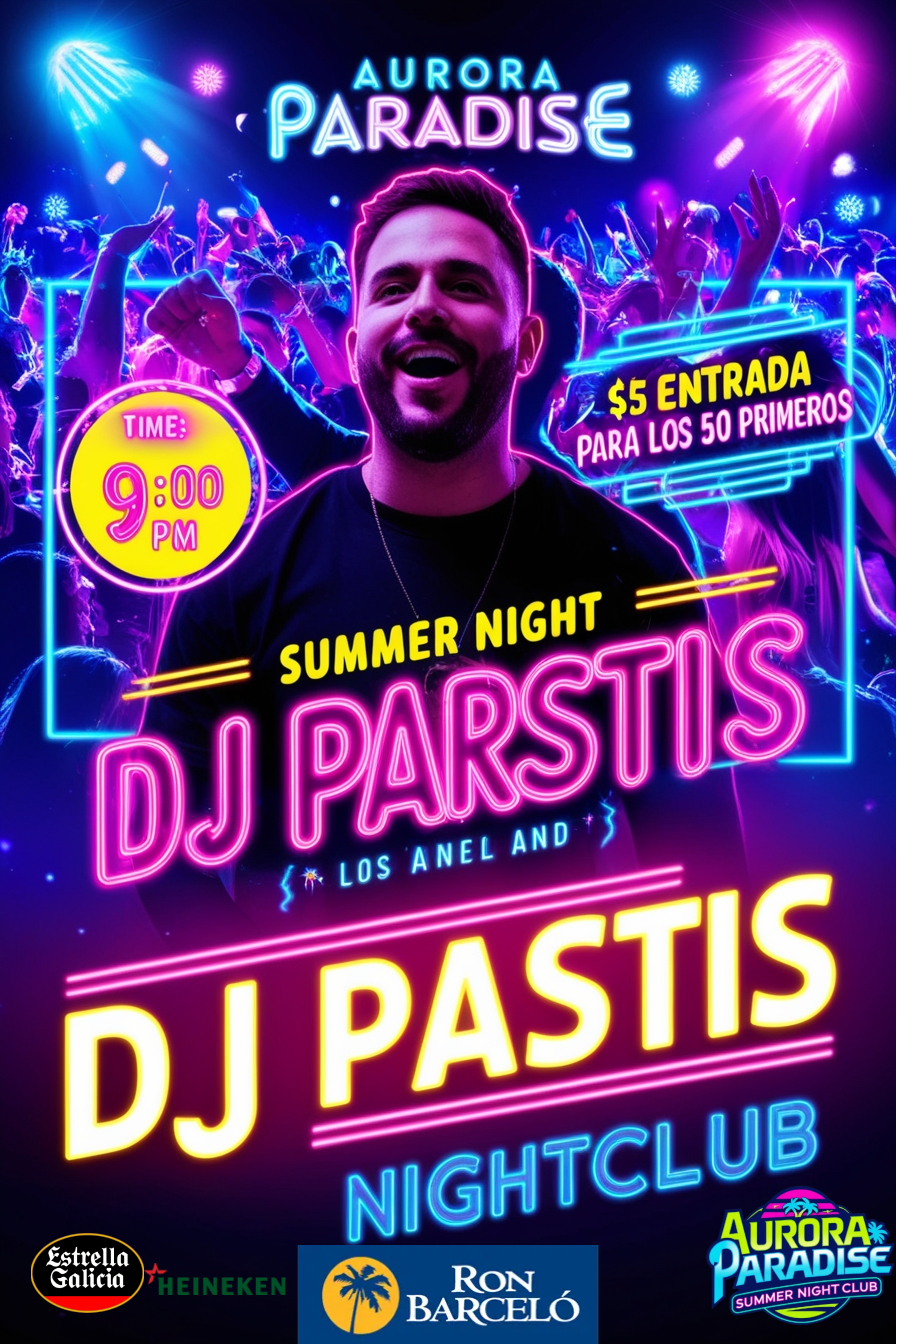
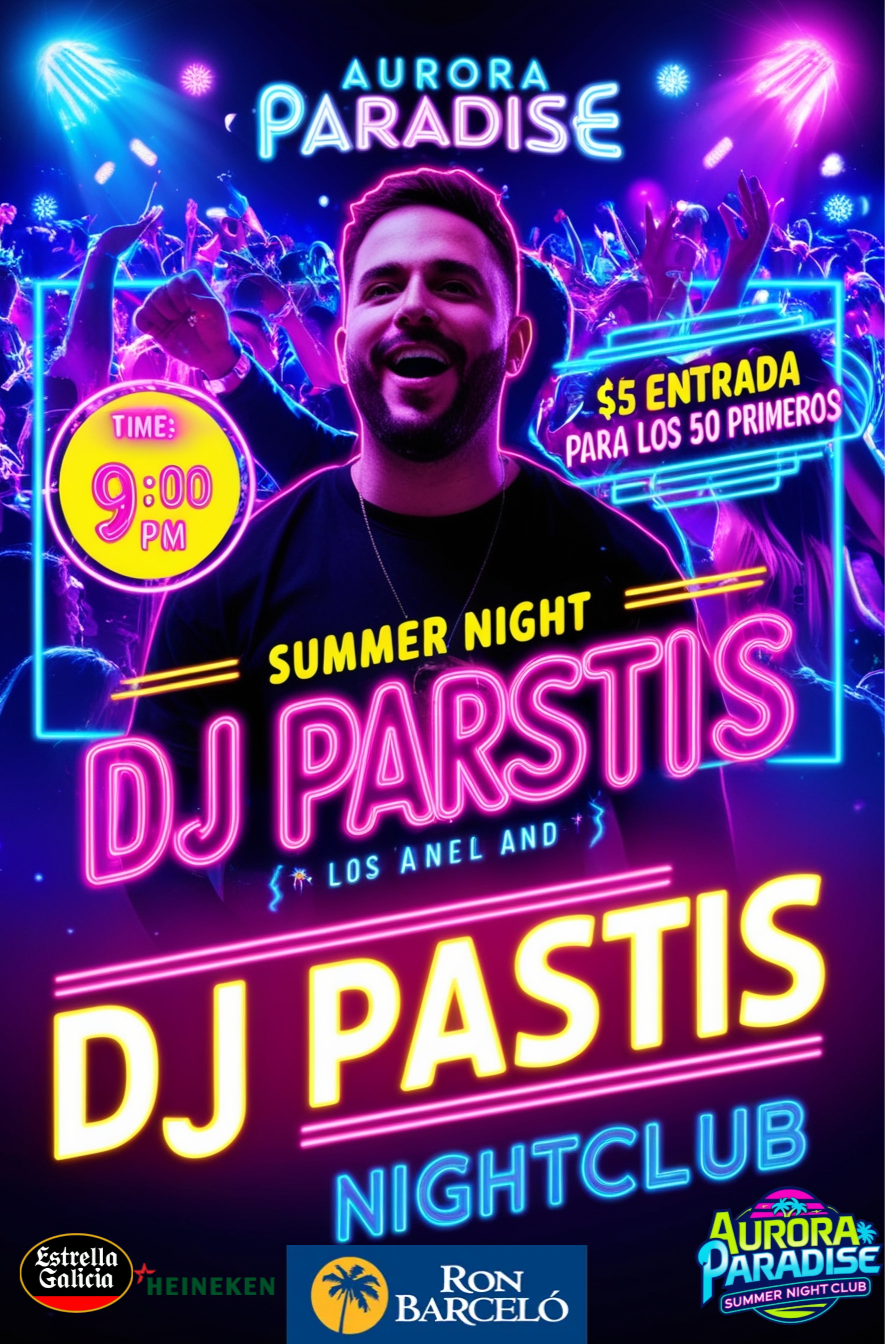
primera parte eventos se abre cartel

diff --git a/discotecaverano/src/componentes/eventos/eventos.tsx b/discotecaverano/src/componentes/eventos/eventos.tsx
@@ -1,4 +1,4 @@
-import React from 'react'
+import React, { useState } from 'react';
 import './eventos.css'
 
 type Evento = {
@@ -21,41 +21,67 @@ const eventosLista: Evento[] = [
 
         title: 'Retro Beats Festival con DJ Pastis',
         description: 'Vuelve al pasado con los sonidos más icónicos en la Retro Beats Festival en AURORA PARADISE. DJ Pastis te llevará en un viaje musical lleno de nostalgia y ritmos clásicos con un toque moderno. Disfruta de un ambiente lleno de luces neón vibrantes y una oferta especial: 5$ la entrada para los 50 primeros en entrar. ¡Ven a revivir los mejores momentos!',
-        fecha: 'Retro Beats Festival con DJ Pastis',
-        imageUrl: 'https://via.placeholder.com/300',
-        videoUrl: 'https://www.youtube.com/embed/dQw4w9WgXcQ'
+        fecha: ' Viernes, 21 de Junio,A partir de las 22:00',
+        imageUrl: '../../imagenes/evento2.png',
+        videoUrl: 'D6ypkCZvz7s?si=D8WLhvjQ_OB5v8EZ'
     },
     {
 
-        title: 'Pool Party',
-        description: 'Disfruta de una pool party épica con DJ en vivo.',
-        fecha: '15/02/2025',
-        imageUrl: 'https://via.placeholder.com/300',
-        videoUrl: 'https://www.youtube.com/embed/dQw4w9WgXcQ'
+        title: 'Midnight Groove Experience con DJ Groove"',
+        description: 'Déjate llevar por las vibraciones profundas del Midnight Groove Experience en AURORA PARADISE. DJ Groove traerá los ritmos más intensos para mantenerte bailando hasta el amanecer. Disfruta de una noche llena de energía, luces neón y buena música. No te pierdas nuestra oferta especial: Entrada gratis. ¡Ven a sentir el groove con nosotros!',
+        fecha: ' Viernes, 21 de Junio,A partir de las 23:30',
+        imageUrl: '../../imagenes/evento3.png',
+        videoUrl: '-syFI6iYzuY?si=f-KyekKV9of2Petp'
     }
 ];
 
 
 export default function eventos() {
+
+    // Estado para controlar la visibilidad del modal
+    const [modalAbierto, setModalAbierto] = useState<boolean>(false);
+    // Estado para almacenar el evento seleccionado
+    const [eventoSeleccionado, setEventoSeleccionado] = useState<Evento | null>(null);
+
+    // Función para abrir el modal y mostrar la imagen del evento seleccionado
+    const abrirModal = (evento: Evento) => {
+        setEventoSeleccionado(evento);
+        setModalAbierto(true);  // Abrimos el modal
+    };
+
+    // Función para cerrar el modal
+    const cerrarModal = () => {
+        setModalAbierto(false);  // Cerramos el modal
+        setEventoSeleccionado(null);  // Limpiamos el evento seleccionado
+    };
+
+
     return (
+
+
         <div className='eventos'>
-            {eventosLista.map((evento, index) => (
-                <div key={index} className='evento-card'>
-                    <img src={evento.imageUrl} alt={evento.title} className='evento-image' />
-                    <div className='evento-info'>
-                        <h3 className='evento-title'>{evento.title}</h3>
-                        <p className='evento-description'>{evento.description}</p>
-                        <iframe
-                            src={`https://www.youtube.com/embed/${evento.videoUrl}`}
-                            title={evento.title}
-                            className='evento-video'
-                            frameBorder='0'
-                            allow='accelerometer; autoplay; clipboard-write; encrypted-media; gyroscope; picture-in-picture'
-                            allowFullScreen
-                        ></iframe>
+            <h2 className='eventoEncabezado'>EVENTOS</h2>
+            <div className="imagenesEventos">
+                {eventosLista.map((evento, index) => (
+                    <div key={index} className='evento-card'>
+                        <img src={evento.imageUrl}
+                            alt={evento.title}
+                            className='evento-image'
+                            onClick={() => abrirModal(evento)} />
+                    </div>
+                ))}
+            </div>
+
+            {/*Si el Modal esta abierto mostramos el cartel del evento en grande */}
+            {modalAbierto && eventoSeleccionado && (
+                <div className="containerCartelGrande" onClick={cerrarModal}> {/* Cerramos el modal si hacemos clic fuera */}
+                    <div className="cartelGrande" onClick={(e) => e.stopPropagation()}> {/* Evita que el clic dentro del contenido cierre el modal */}
+                        <img src={eventoSeleccionado.imageUrl} alt={eventoSeleccionado.title} className="imagenGrande" />
+                        <button className='boton'>VER MAS INFORMACION SOBRE EL EVENTO</button>
                     </div>
                 </div>
-            ))}
+            )}
         </div>
+
     )
 };

diff --git a/discotecaverano/src/componentes/eventos/eventos.css b/discotecaverano/src/componentes/eventos/eventos.css
@@ -1,54 +1,117 @@
-/* Estilo para el contenedor de eventos */
 .eventos {
-    display: grid;
-    grid-template-columns: repeat(auto-fill, minmax(300px, 1fr));
-    gap: 20px;
-    padding: 20px;
-}
-
-/* Estilo para cada tarjeta de evento */
-.evento-card {
-    background-color: white;
-    border-radius: 8px;
-    box-shadow: 0px 4px 10px rgba(0, 0, 0, 0.1);
-    overflow: hidden;
-    transition: transform 0.2s;
-}
-
-.evento-card:hover {
-    transform: scale(1.05);
-}
-
-/* Estilo para la imagen del evento */
-.evento-image {
+    margin: 4% 0;
     width: 100%;
-    height: auto;
+
 }
 
-/* Estilo para el contenedor de la información del evento */
-.evento-info {
-    padding: 15px;
+.eventoEncabezado {
+    color: #00FFFF;
+    font-size: 3rem;
+    font-weight: bold;
+    text-shadow:
+        0 0 4px rgb(11, 103, 209),
+        0 0 8px rgb(11, 103, 209),
+        0px 0px 12px rgb(11, 103, 209),
+        0px 0px 20px rgb(11, 103, 209),
+        0px 0px 30px rgb(11, 103, 209);
+
     text-align: center;
+    line-height: 1.1;
 }
 
-/* Estilo para el título del evento */
-.evento-title {
-    font-size: 1.5rem;
-    color: #333;
-    margin: 10px 0;
-}
-
-/* Estilo para la descripción del evento */
-.evento-description {
-    font-size: 1rem;
-    color: #666;
-    margin-bottom: 15px;
-}
-
-/* Estilo para el video del evento */
-.evento-video {
+.imagenesEventos {
     width: 100%;
-    height: 200px;
+    display: grid;
+    grid-template-columns: repeat(auto-fit, minmax(300px, 1fr));
+    gap: 1.5rem;
+    align-items: center;
+    justify-content: space-between;
+
+}
+
+.evento-card {
+    width: 100%;
+    display: flex;
+    justify-content: center;
+    align-items: center;
+}
+
+.evento-image {
+    width: 50%;
+    height: 50%;
+    object-fit: cover;
+    border-radius: 18px;
+    transition: transform 0.3s ease, box-shadow 0.3s ease;
+}
+
+.evento-image:hover {
+    transform: scale(1.05);
+    cursor: pointer;
+    box-shadow: 0 0 20px rgb(11, 103, 209), 0 0 40px rgb(11, 103, 209), 0 0 60px rgb(11, 103, 209);
+}
+
+/* Animación de Pop-up para el modal */
+@keyframes popUp {
+    0% {
+        transform: scale(0.7);
+        /* Comienza más pequeño */
+        opacity: 0;
+        /* Comienza invisible */
+    }
+
+    100% {
+        transform: scale(1);
+        /* Escala a su tamaño original */
+        opacity: 1;
+        /* Se vuelve completamente visible */
+    }
+}
+
+.containerCartelGrande {
+    position: fixed;
+    top: 0;
+    left: 0;
+    width: 100%;
+    height: 100%;
+    background-color: rgba(0, 0, 0, 0.7);
+    display: flex;
+    justify-content: center;
+    align-items: center;
+    z-index: 1000;
+
+}
+
+.cartelGrande {
+    width: 500px;
+    animation: popUp 0.5s ease-out;
+    display: flex;
+    justify-content: center;
+    flex-direction: column;
+    align-items: center;
+}
+
+.imagenGrande {
+    width: 100%;
+    margin-bottom: 4%;
+    border-radius: 18px;
+}
+
+.boton {
+    width: 100%;
+    padding: 0.8rem;
+    margin-top: 1rem;
+    background: linear-gradient(to right, rgba(0, 123, 255, 1), rgba(255, 0, 123, 1));
     border: none;
-    border-radius: 8px;
+    border-radius: 18px;
+    color: white;
+    font-size: 1.2rem;
+    font-weight: bold;
+    cursor: pointer;
+    transition: all 0.3s ease;
+}
+
+.boton:hover {
+    transform: scale(1.05);
+    box-shadow: 0 0 10px rgba(0, 123, 255, 1), 0 0 20px rgba(255, 0, 123, 1);
+
 }

diff --git a/discotecaverano/src/componentes/modalHome/modalHome.tsx b/discotecaverano/src/componentes/modalHome/modalHome.tsx
@@ -1,0 +1,36 @@
+import React, { useState } from 'react';
+import './modalHome.css'; // Archivo CSS para estilos
+
+// Definimos las propiedades del próximo evento usando una interfaz
+interface EventProps {
+  imageUrl: string;
+  title: string;
+  description: string;
+  date: string;
+}
+
+const modalHome: React.FC<EventProps> = ({ imageUrl, title, description, date }) => {
+  // Estado para manejar la visibilidad de la ventana emergente
+  const [isVisible, setIsVisible] = useState(true);
+
+  // Función para cerrar la ventana emergente
+  const handleClose = () => {
+    setIsVisible(false);
+  };
+
+  // Retorna la ventana emergente solo si es visible
+  return isVisible ? (
+    <div className="popup-overlay">
+      <div className="popup-content">
+        <button className="close-button" onClick={handleClose}>X</button>
+        <img src={imageUrl} alt={`Cartel de ${title}`} className="popup-image" />
+        <h2 className="popup-title">{title}</h2>
+        <p className="popup-description">{description}</p>
+        <p className="popup-date">Fecha: {date}</p>
+      </div>
+    </div>
+  ) : null;
+};
+
+export default modalHome;
+

diff --git a/discotecaverano/src/index.css b/discotecaverano/src/index.css
@@ -7,7 +7,7 @@
 
   color-scheme: light dark;
   color: rgba(255, 255, 255, 0.87);
-  background-color: #242424;
+  background: #1a1a1a;
 
   font-synthesis: none;
   text-rendering: optimizeLegibility;
@@ -27,29 +27,10 @@ a:hover {
 
 body {
   margin: 0;
+  overflow-x: hidden;
 }
 
 
-button {
-  border-radius: 8px;
-  border: 1px solid transparent;
-  padding: 0.6em 1.2em;
-  font-size: 1em;
-  font-weight: 500;
-  font-family: inherit;
-  background-color: #1a1a1a;
-  cursor: pointer;
-  transition: border-color 0.25s;
-}
-
-button:hover {
-  border-color: #646cff;
-}
-
-button:focus,
-button:focus-visible {
-  outline: 4px auto -webkit-focus-ring-color;
-}
 
 @media (prefers-color-scheme: light) {
   :root {
@@ -61,7 +42,5 @@ button:focus-visible {
     color: #747bff;
   }
 
-  button {
-    background-color: #f9f9f9;
-  }
+
 }
